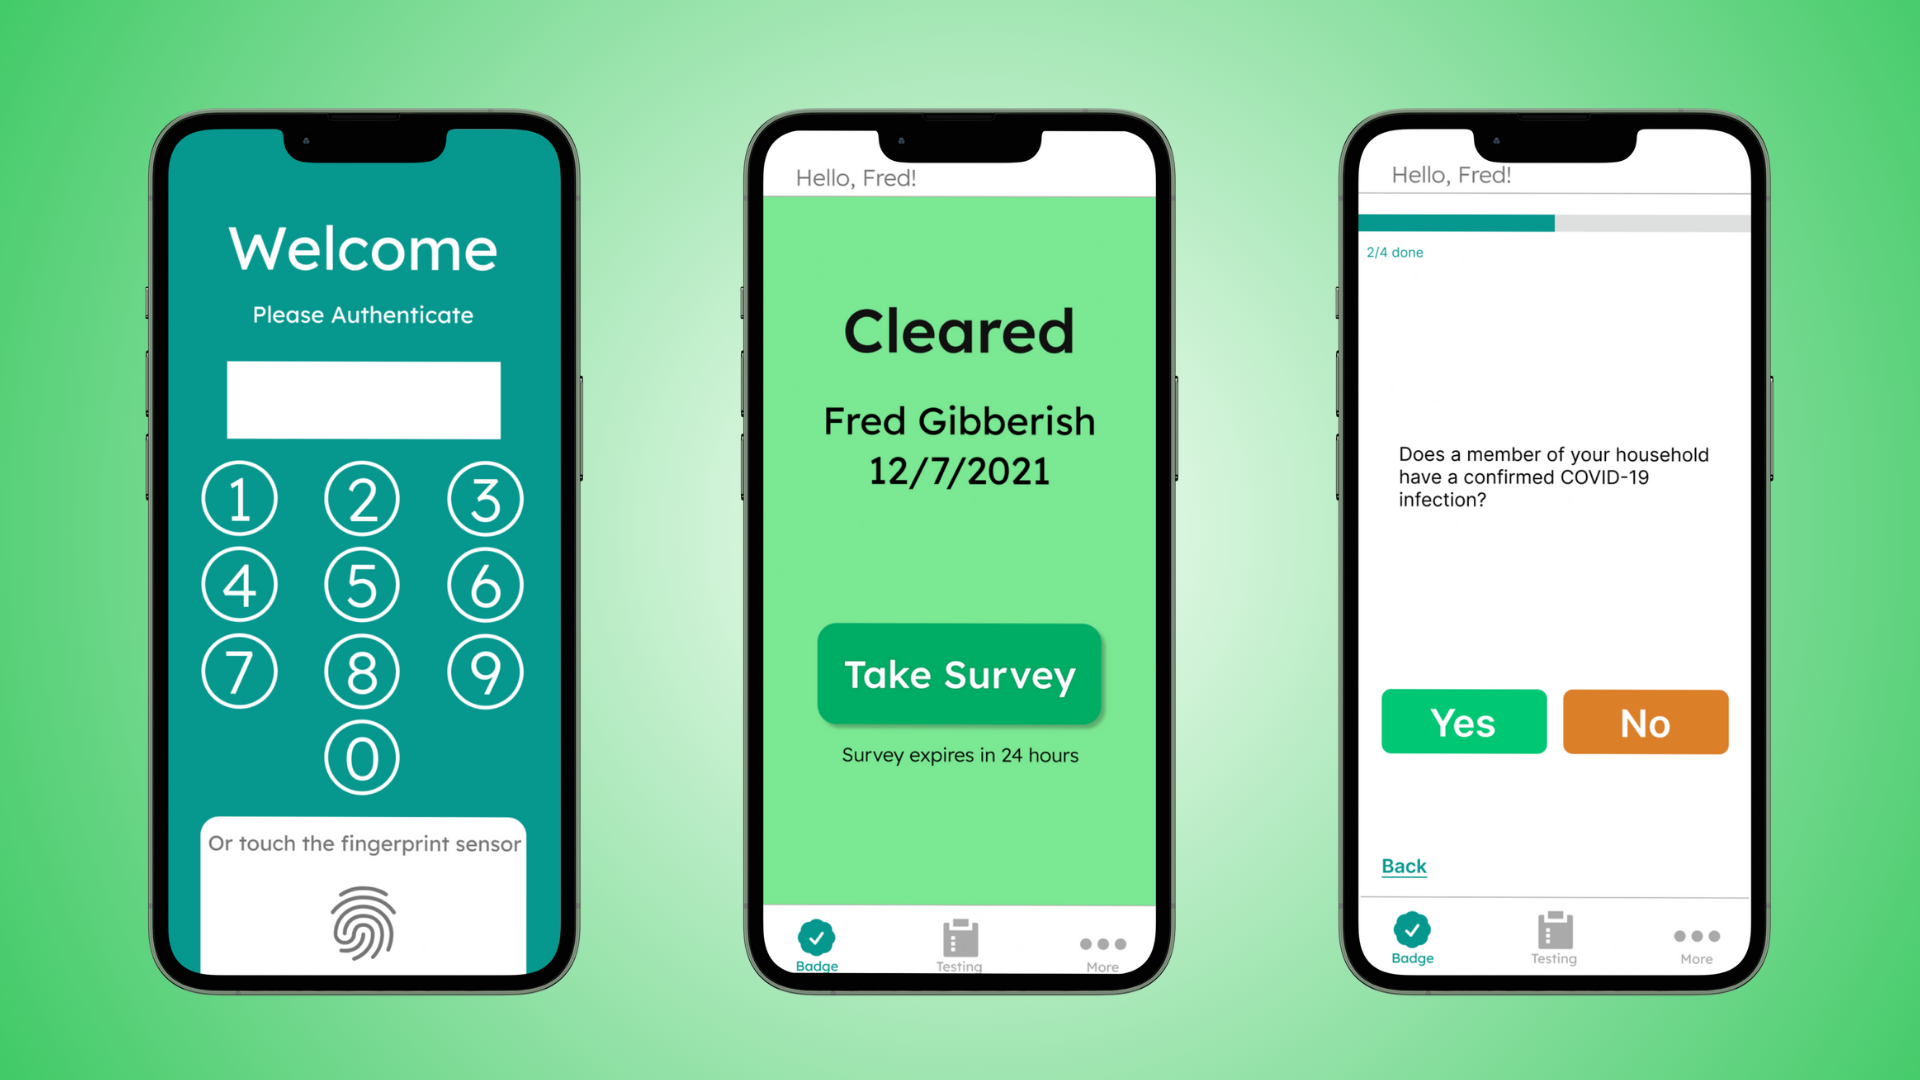
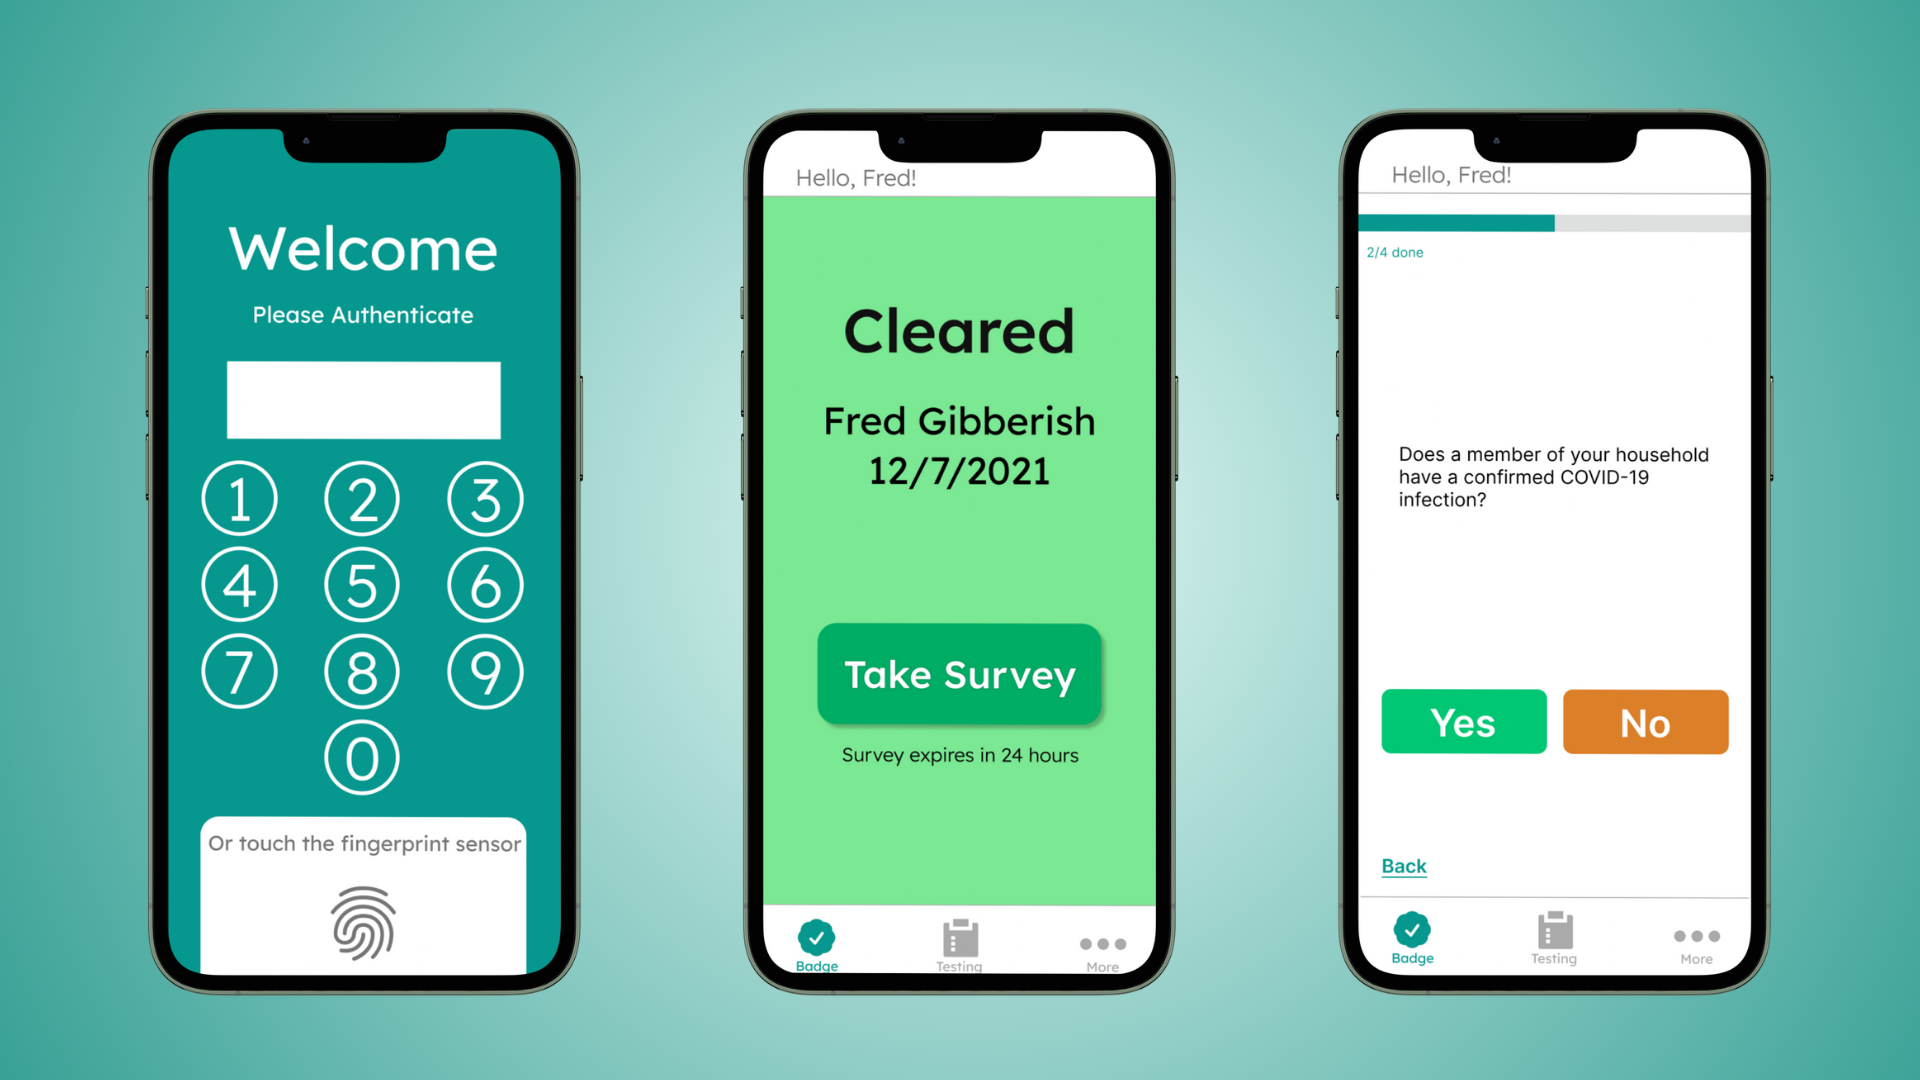
Props page, Health Tracker recoloring

Changed region(s): [[0.0, 0.0, 0.4375, 1.0], [0.5938, 0.0, 1.0, 1.0]]

diff --git a/props.html b/props.html
@@ -81,7 +81,9 @@
             </div>
             <br>
             <p>
-                In the spring of 2022, I joined the software startup Sesto Labs as a UX research intern. My team worked on developing Props, a mobile app that would let workplace team members express appreciation by "giving props" to their coworkers. Employers could give props to their employees, peers could give props to each other, and it would be public to all team members through activity feeds and leaderboards.
+                In the spring of 2022, I worked with the software startup Sesto Labs as a UX research intern. 
+                <br><br>
+                My team worked on developing Props, a mobile app that would let workplace team members express appreciation by "giving props" to their coworkers. Employers could give props to their employees, peers could give props to each other, and it would be public to all team members through activity feeds and leaderboards.
                 <br><br>
                 The Props app works on a model of increasing employee satisfaction through public displays of recognition. <strong>In my research I sought to validate that model by studying the relationship between recognition, appreciation, and motivation in employees. </strong>
             </p>
@@ -93,23 +95,9 @@
             </div>
             <br>
             <p>
-                
-                <ul style="font-weight:400; align-items: center;">
-                    <li>
-                        To discover how employees feel about motivation, reward, appreciation, and recognition in their workplace
-                    </li>
-                    <li>
-                        To discover how employers and team leaders work to recognize their employees
-
-                    </li>
-                    <li>
-                        To validate the assumption that employees are often under-recognized and feel underappreciated 
-                    </li>
-                    <li>
-                        To see if Props would be effective at improving employee morale
-                    </li>
-                </ul>
-           
+            <br>
+                <img src="Images/Props goals.png" style="margin:0px 0px; width:90%">
+           <br>
             <br>
             <hr>
             <br>
@@ -118,10 +106,25 @@
             </div>
             <br>
             <br>
-            <p>This study was centered on qualitative interviews. The participant pool consisted of five participants, both male and female, ranging from 18-55 in age. All participants were employed in some way that placed them in a team structure. Most of the participants were in entry-level positions, but one participant was a middle manager with a team of direct reports. I would have liked to expand the participant pool, but I was constrained by both time and lack of resources to recruit participants.
-                <br><br>
-                Each interview was conducted in person and recorded digitally, then transcribed and coded by theme. The results were organized onto virtual post-it notes, key quotes were pulled out, and then findings and suggestions were compiled to report back to the team.
-            </p>
+            <div class="container" style="margin:0">
+                <div class="row">
+                    <div class="col-md-6">
+                        <p>The study was centered on qualitative interviews. 
+                            The participant pool consisted of five participants, both male and female, ranging from 18-55 in age. All participants were employed in some form of a team structure. 
+                            Some of the participants were in entry-level positions, and some were managers with direct reports. 
+                            
+                            <br><br>
+                            Each interview was conducted in person and recorded digitally, then transcribed and coded by theme. The results were organized, key quotes were pulled out, and then findings and suggestions were compiled to report back to the team.
+                        <br><br>
+                            I would have liked to expand the participant pool, but I was constrained by both time and limited budget to recruit participants.
+                        </p>
+                    </div>
+                    <div class="col-md-6">
+                        <img src="Images/Props post its.png" style="width:100%">
+                    </div>
+                </div>
+            </div>
+            
             <br>
             <br>
             <hr>
@@ -129,20 +132,9 @@
             <div class="sectionhead">
                 KEY QUOTES
             </div>
-            <ul>
-                <li>
-                    "My coworkers will express appreciation to each other, but not in front of the rest of the group"
-                </li>
-                <li>
-                    "We've tried to establish systems for recognizing employees, but it's always fallen by the wayside"
-                </li>
-                <li>
-                    "Your boss is responsible for assessing your performance, so recognition from them feels better than from a coworker"
-                </li>
-                <li>
-                    "Public recognition would make me feel embarrassed"
-                </li>
-            </ul>
+            <br>
+            <img src="Images/props quotes.png" style="width:70%; margin:0px 130px">
+            <br>
             <br>
             <hr>
             <br>
@@ -152,39 +144,41 @@
             <br>
             <div class="container" style="margin:0">
                 <div class="row">
-                    <div class="col-md-6">
+                    <div class="col-md-8">
                         <p>
                         <ul>
                             <li>
-                                Props has clear potential to some user bases, but the value wasn't immediately apparent to others. Some participants showed reluctance to use an app for employee recognition or didn't believe that their workplace needed a system for employee recognition.
-                            </li>
+                                <strong>Props has clear potential to some user bases, but the value wasn't immediately apparent to others.</strong> Some participants showed reluctance to use an app for employee recognition or didn't believe that their workplace needed a system for employee recognition.
+                            <br><br></li>
                             <li>
-                                Many workplaces already have a system for managers recognizing employees, but no participant in the study spoke of a system for peers recognizing each other. When coworkers express their appreciation for each other, it's usually in a private, interpersonal context. This means that managers aren't aware when their direct reports are being effective and receiving positive feedback. This could be an area of opportunity for Props: encouraging coworkers to recognize each other through a more formal system, thereby providing managers with crucial productivity and teamwork data.
-                            </li>
+                                Many workplaces already have a system for managers recognizing employees, but no participant in the study spoke of a system for peers recognizing each other. When coworkers express their appreciation for each other, it's usually in a private, interpersonal context. This means that managers aren't aware when their direct reports are being effective and receiving positive feedback. <strong>This could be an area of opportunity for Props: encouraging coworkers to recognize each other through a more formal system, thereby providing managers with crucial productivity and teamwork data.</strong>
+                            <br><br></li>
                             <li>
-                                Several participants expressed a desire to make recognition more tangible. One participant suggested a "gift shop" feature where employees could exchange their props for prizes or money. In order for the recognition to feel meaningful, users need to know how it benefits them.
-                            </li>
+                                Several participants expressed a desire to make recognition more tangible. One participant suggested a "gift shop" feature where employees could exchange their props for prizes or money. <strong>In order for the recognition to feel meaningful, users need to know how it benefits them.</strong>
+                            <br><br></li>
                             <li>
                                 Some people find public recognition embarrassing. Adding a feature for sending props privately would help accommodate different preferences.
                             </li>
                         </ul>
                         </p>
                     </div>
-                    <div class="col-md-6">
-                        <img src="Images/Health journey after.png" style="width:100%">
+                    <div class="col-md-4">
+                        <img src="Images/props rewards.png" style="width:85%">
                     </div>
                 </div>
             </div>
             <br>
             <br>
             <hr>
+            <br>
             <div class="sectionhead">
                 KEY TAKEAWAY
             </div>
+            <br>
             <p>
                 This study suggests that Props has great potential in filling the nice of peer-to-peer appreciation. It could also have great value to managers and HR teams in their employee review process, providing quantitative records of their employees' best moments.
            <br><br>
-           Not every organization will benefit from an app like Props, but if it's designed to be fun, gamified, and rewarding to use, it can absolutely find an audience and has the potential to greatly impact employee motivation.
+           Not every organization will benefit from an app like Props, but if it's designed to be fun, gamified, and rewarding to use, it can easily find an audience and could greatly impact employee motivation.
             </p>
             <br>
             <br>            

diff --git a/index.html b/index.html
@@ -98,13 +98,13 @@
                         Ithaca College Health Tracker
                         </a>
                     </div>
-                    <div class="button" style="background-color: rgb(145, 235, 175)">
+                    <div class="button" style="background-color: rgb(83, 197, 180)">
                         PRODUCT DESIGN
                     </div>
-                    <div class="button" style="background-color: rgb(145, 235, 175)">
+                    <div class="button" style="background-color: rgb(83, 197, 180)">
                         WIREFRAMING
                     </div>
-                    <div class="button" style="background-color: rgb(145, 235, 175)">
+                    <div class="button" style="background-color: rgb(83, 197, 180)">
                         PROTOTYPING
                     </div>
                     <div class="projectDescription">

diff --git a/CSS/work.css b/CSS/work.css
@@ -61,7 +61,7 @@ h3{
   text-decoration: none;
   display: inline-block;
   font-size: 16px;
-  font-weight: 300;
+  font-weight: 400;
   margin-left: 30px;
   margin-top: 10px;
   margin-bottom: 10px;
